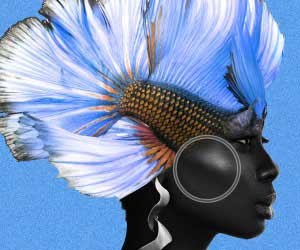
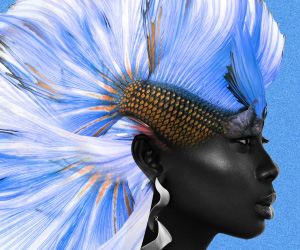
update per internal review;
- Just going with one image into the overlay with the textbox anim.
- slow down tag text animation;

diff --git a/FY20Q4_NoOffer_US_ShowDontTell_AN/FY20Q4_NoOffer_US_ShowDontTell_AN_300x250/index.html b/FY20Q4_NoOffer_US_ShowDontTell_AN/FY20Q4_NoOffer_US_ShowDontTell_AN_300x250/index.html
@@ -159,10 +159,10 @@
     }
 
     .js-element-3 img {
-      left: -10px;
-      top: 54px;
-      width: 321px;
-      height: 132px;
+      left: 40px;
+      top: 105px;
+      width: 220px;
+      height: 40px;
     }
 
     .f1-wrapper{
@@ -191,12 +191,7 @@
       height: 250px;
     }
 
-    .js-frame-slide-1,
-    .js-frame-slide-2,
-    .js-frame-slide-3,
-    .js-frame-slide-4,
-    .js-frame-slide-5,
-    .js-frame-slide-6 {
+    .js-frame-slide-1 {
       opacity: 0;
     }
 
@@ -266,11 +261,6 @@
         ];
       var addtl_load_imgs = [
           "./images/F1.jpg",
-          "./images/F2.jpg",
-          "./images/F3.jpg",
-          "./images/F4.jpg",
-          "./images/F5.jpg",
-          "./images/F6.jpg",
           "./images/F1_bg_mask.png",
           "./images/F1_dotted_box.png",
           "./images/F1_text.svg",
@@ -295,11 +285,6 @@
       var frame1 = document.querySelector('.js-frame-1');
       var frame2 = document.querySelector('.js-frame-2');
       var slide1 = document.querySelector('.js-frame-slide-1');
-      var slide2 = document.querySelector('.js-frame-slide-2');
-      var slide3 = document.querySelector('.js-frame-slide-3');
-      var slide4 = document.querySelector('.js-frame-slide-4');
-      var slide5 = document.querySelector('.js-frame-slide-5');
-      var slide6 = document.querySelector('.js-frame-slide-6');
       var element1 = document.querySelector('.js-element-1');
       var element2 = document.querySelector('.js-element-2');
       var element3 = document.querySelector('.js-element-3');
@@ -323,15 +308,10 @@
           // reveal frame 0
           .to(frame0, 0, { opacity: '1' }, '+=0.25')
           .to(slide1, .25, { opacity: '1', ease: Sine.easeOut }, '+=0.5')
-          .to(slide2, .25, { opacity: '1', ease: Sine.easeOut }, '+=0.0')
-          .to(slide3, .25, { opacity: '1', ease: Sine.easeOut }, '+=0.0')
-          .to(slide4, .25, { opacity: '1', ease: Sine.easeOut }, '+=0.0')
-          .to(slide5, .15, { opacity: '1', ease: Sine.easeOut }, '+=0.5')
-          .to(slide6, .25, { opacity: '1', ease: Sine.easeOut }, '+=0.25')
           //reveal frame 1
-          .to(frame1, 0, { opacity: '1' }, '+=0.5')
+          .to(frame1, 0, { opacity: '1' }, '-=0.25')
           // reveal bg mask
-          .to(element1, .5, { opacity: '1', ease: Sine.easeOut }, '+=0.0')
+          .to(element1, .5, { opacity: '1', ease: Sine.easeOut }, '-=0.25')
           // reveal dotted frame
           .to(element2, 0, { css:{scale: 0} }, '-=.5')
           .to(element2, .5, { css:{opacity:1, scale: 1}, ease: Sine.easeIn }, '-=.5')
@@ -342,15 +322,15 @@
           // animate endframe bg
           .to(element4, 0, { y: '0', ease: Sine.easeIn }, '+=0')
           // reveal headline1
-          .to(element5, .25, { opacity: '1', y: '0', ease: Sine.easeOut }, '-=0.0')
+          .to(element5, .5, { opacity: '1', y: '0', ease: Sine.easeOut }, '-=0.0')
           // reveal headline2
-          .to(element6, .35, { opacity: '1', y: '0', ease: Sine.easeOut }, '-=0.25')
+          .to(element6, .65, { opacity: '1', y: '0', ease: Sine.easeOut }, '-=0.5')
           // reveal cta
-          .to(element7, .45, { opacity: '1', y: '0', ease: Sine.easeOut }, '-=0.30')
+          .to(element7, .8, { opacity: '1', y: '0', ease: Sine.easeOut }, '-=0.65')
           // reveal logo
-          .to(element8, .25, { opacity: '1', y: '0', ease: Sine.easeOut }, '-=0')
+          .to(element8, .5, { opacity: '1', y: '0', ease: Sine.easeOut }, '-=0')
           // reveal cloud
-          .to(element9, .25, { opacity: '1', y: '0', ease: Sine.easeOut }, '-=0.75')
+          .to(element9, .5, { opacity: '1', y: '0', ease: Sine.easeOut }, '-=0.75')
       }
 
       function preload(arr) {
@@ -397,11 +377,6 @@
 
       <div class="frame frame--0 js-frame-0">
         <img src="./images/F1.jpg" class="frame__slide js-frame-slide-1" alt="">
-        <img src="./images/F2.jpg" class="frame__slide js-frame-slide-2" alt="">
-        <img src="./images/F3.jpg" class="frame__slide js-frame-slide-3" alt="">
-        <img src="./images/F4.jpg" class="frame__slide js-frame-slide-4" alt="">
-        <img src="./images/F5.jpg" class="frame__slide js-frame-slide-5" alt="">
-        <img src="./images/F6.jpg" class="frame__slide js-frame-slide-6" alt="">
       </div> 
       <div class="frame frame--1 js-frame-1">
         <img src="./images/F1_bg_mask.png" class="frame__slide js-element-1" alt="">
